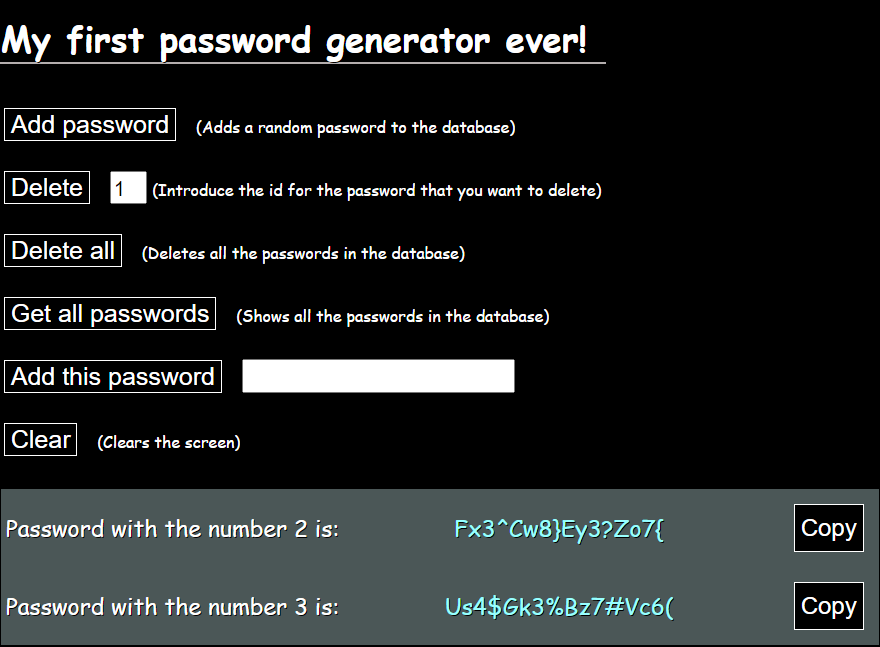
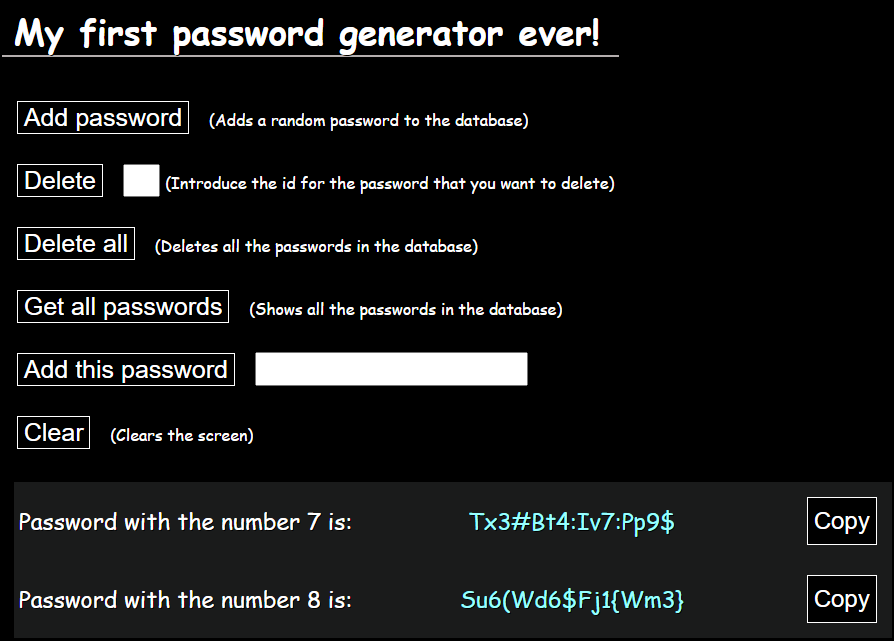
changed the background color of the response

diff --git a/src/main/resources/static/style.css b/src/main/resources/static/style.css
@@ -62,7 +62,7 @@ h2 {
 
 #response{
     font-size: 23px;
-    background-color: rgb(75, 87, 87);
+    background-color: rgb(26, 27, 27);
     margin-top:2%; 
     margin-left:12px;
     padding-left:5px;
